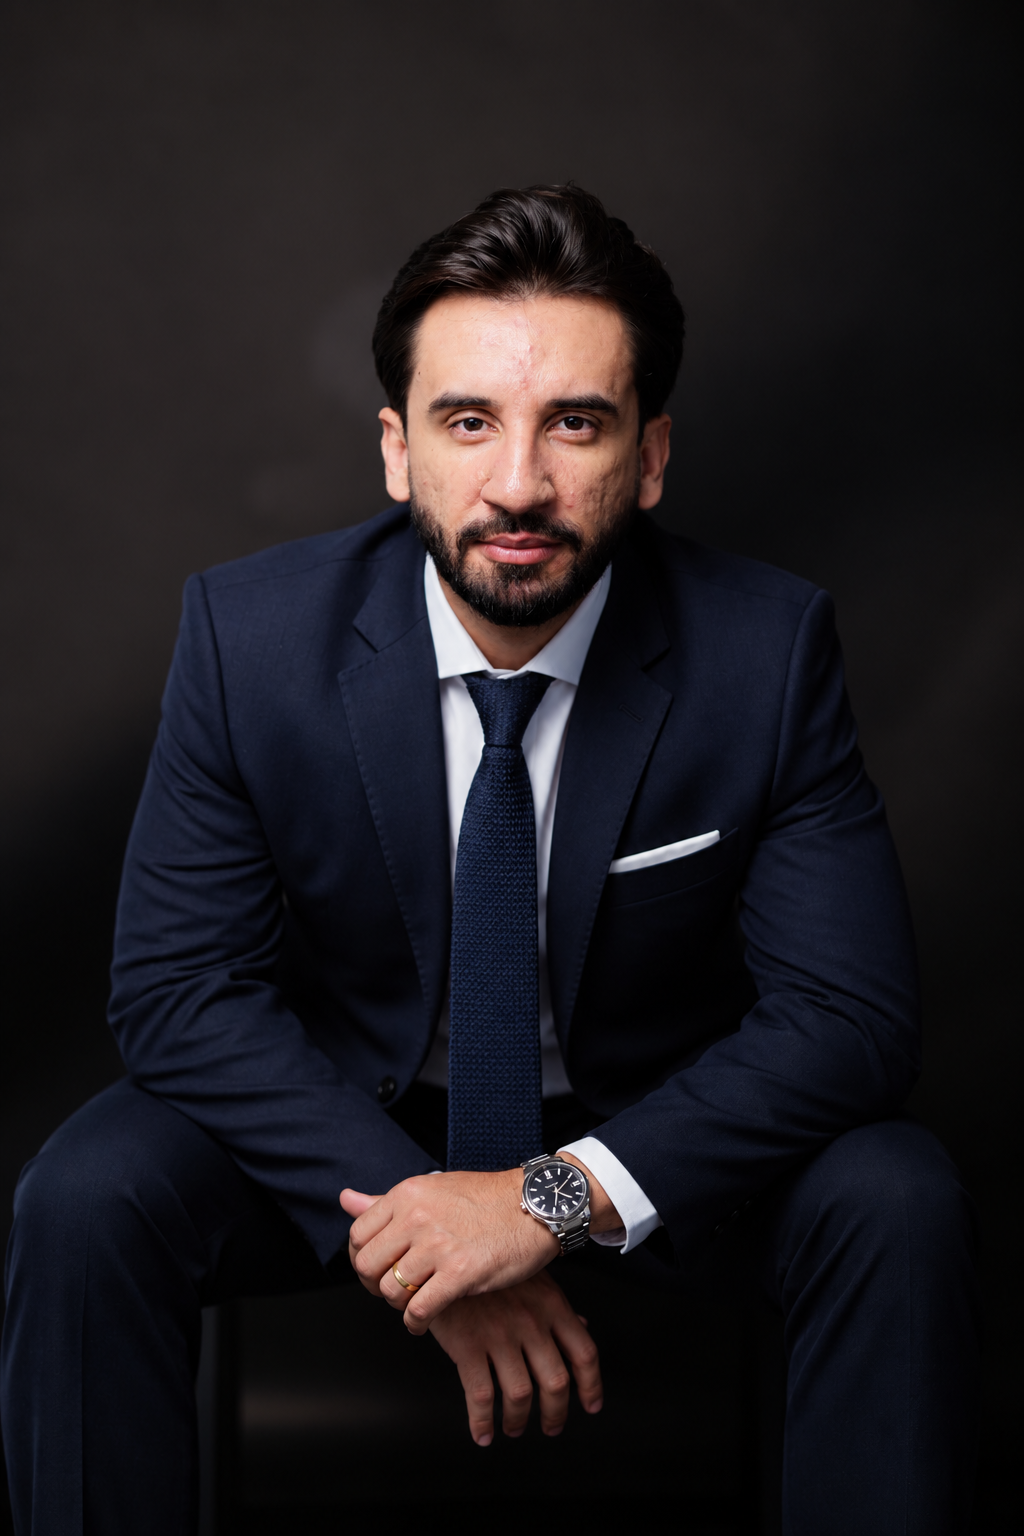
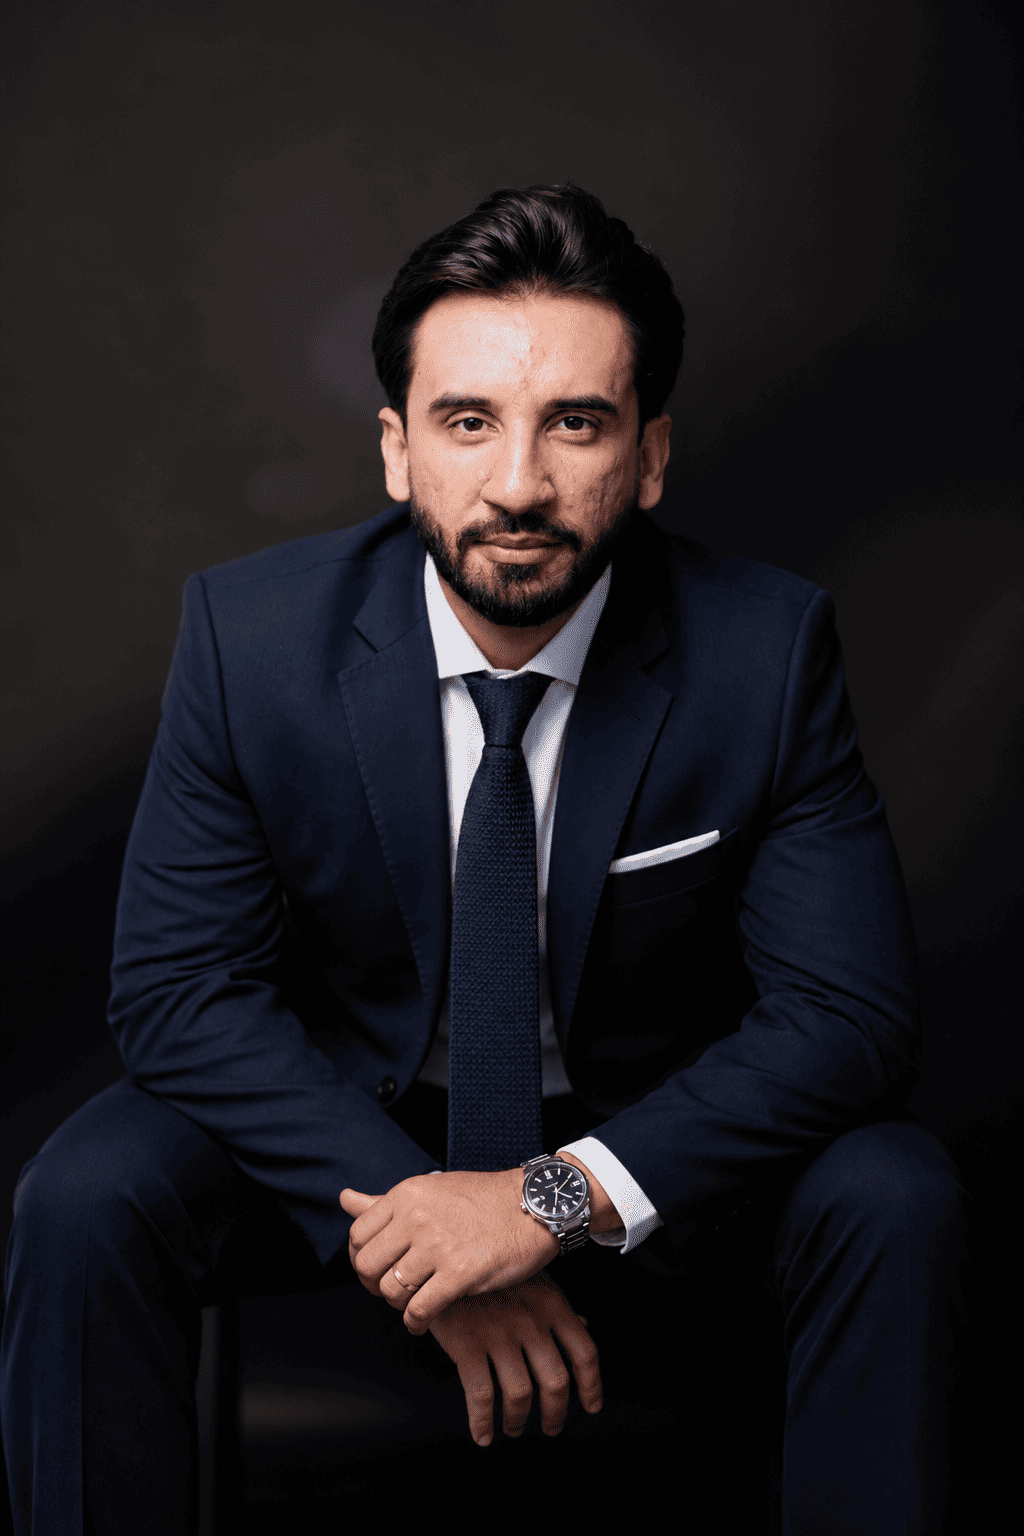
Add files via upload

diff --git a/marilia.html b/marilia.html
@@ -236,8 +236,8 @@
 
   <section class="perfil-advogado">
     <div class="perfil-foto" aria-label="Foto da Dra. Marilia Rodrigues com efeito hover">
-      <img src="marilia.jpeg" alt="Dra. Marilia Rodrigues">
-      <img src="marilia 1.jpeg" alt="Dra. Marilia Rodrigues (hover)">
+      <img src="marilia-equipe-juridica-sms.jpeg" alt="Dra. Marilia Rodrigues">
+      <img src="marilia-profissional-advocacia-goiania.jpeg" alt="Dra. Marilia Rodrigues (hover)">
     </div>
 
     <div class="perfil-texto">

diff --git a/Kelsto.html b/Kelsto.html
@@ -236,8 +236,8 @@
 
   <section class="perfil-advogado">
     <div class="perfil-foto" aria-label="Foto do Dr. Kelsto Marques com efeito hover">
-      <img src="kelsto 1.jpg" alt="Dr. Kelsto Marques">
-      <img src="kelsto 2.jpg" alt="Dr. Kelsto Marques (hover)">
+      <img src="kelsto-profissional-advocacia-goiania.jpg" alt="Dr. Kelsto Marques">
+      <img src="kelsto-equipe-juridica-sms.jpg" alt="Dr. Kelsto Marques (hover)">
     </div>
 
     <div class="perfil-texto">
